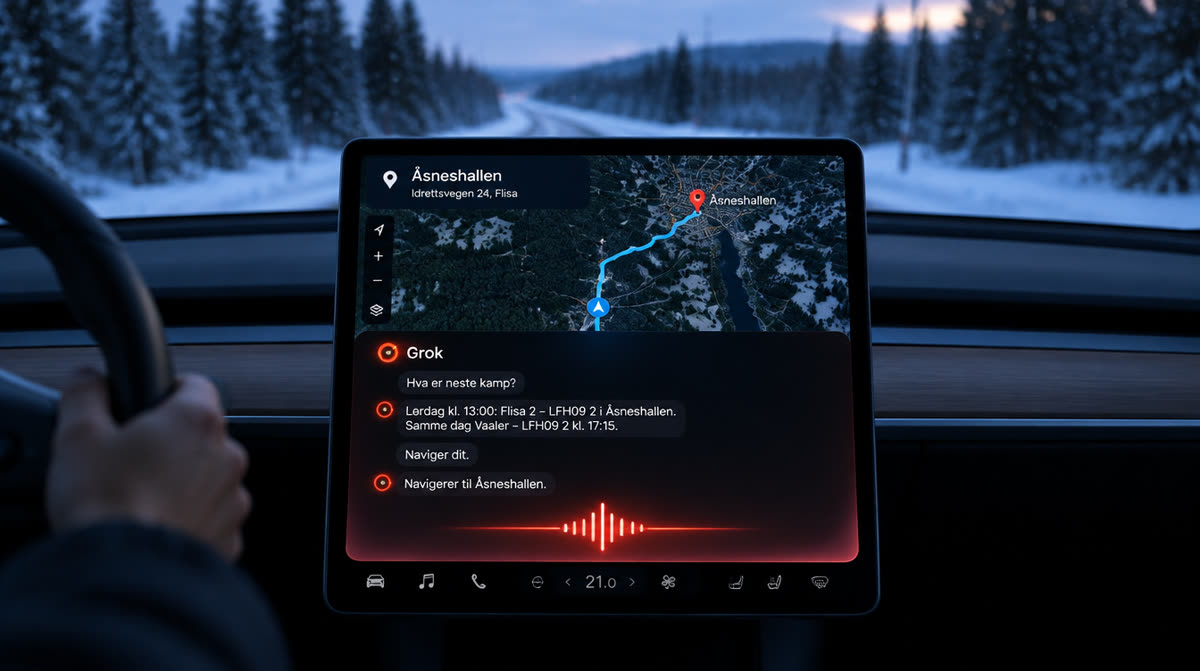
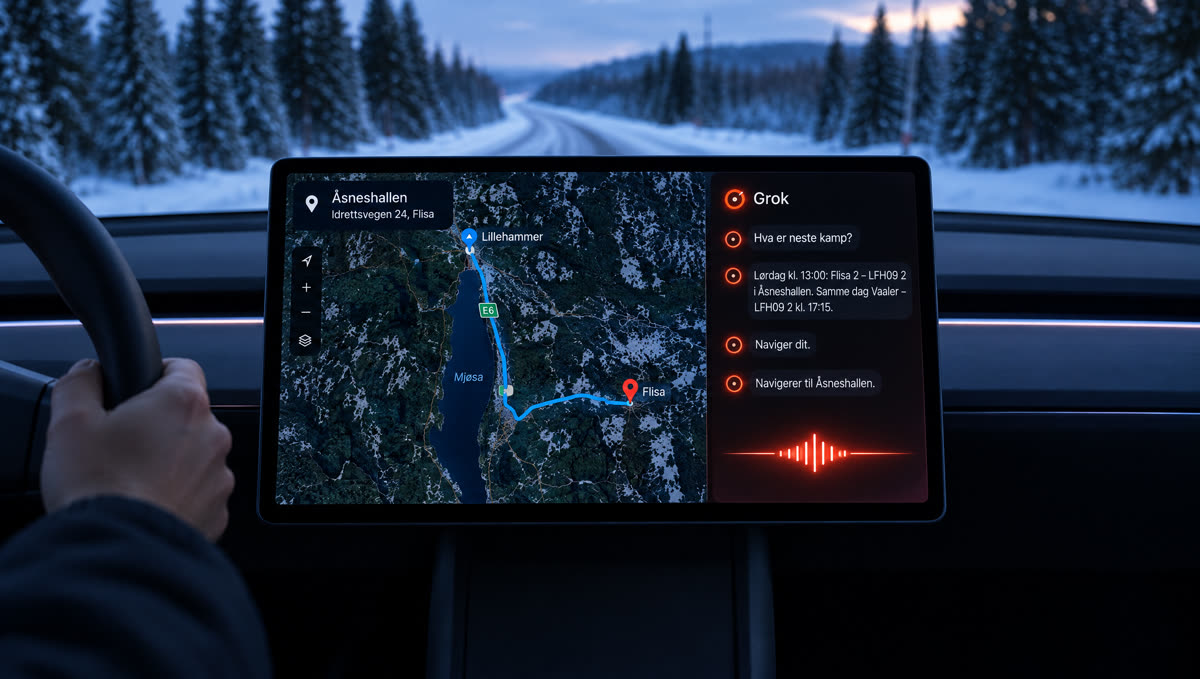
fix: Tesla-bildet med liggende skjerm og rute fra Lillehammer langs E6 mot Flisa
Claude-Session: https://claude.ai/code/session_01XfQKzvQjTJFnDciHvXKS2K

diff --git a/knatt-i-bilen/index.html b/knatt-i-bilen/index.html
@@ -241,7 +241,7 @@ pre .k { color: var(--lime); } pre .s { color: var(--glod-l); } pre .c { opacity
   <div class="container">
     <figure>
       <div class="shot-frame" data-reveal>
-        <img src="tesla-grok.webp" width="1344" height="752" alt="Illustrasjon: skjermen i en Tesla Model Y en vinterkveld. Kartet viser ruta til Åsneshallen på Flisa, og Grok-panelet viser samtalen: «Hva er neste kamp?» — «Lørdag kl. 13:00: Flisa 2 – LFH09 2 i Åsneshallen. Samme dag Vaaler – LFH09 2 kl. 17:15.» — «Naviger dit.» — «Navigerer til Åsneshallen.»">
+        <img src="tesla-grok.webp" width="1600" height="905" alt="Illustrasjon: den liggende skjermen i en Tesla Model Y en vinterkveld. Kartet viser ruta fra Lillehammer langs E6 ved Mjøsa og videre til Flisa, og Grok-panelet viser samtalen: «Hva er neste kamp?» — «Lørdag kl. 13:00: Flisa 2 – LFH09 2 i Åsneshallen. Samme dag Vaaler – LFH09 2 kl. 17:15.» — «Naviger dit.» — «Navigerer til Åsneshallen.»">
       </div>
       <figcaption>Illustrasjon laget med KI · kampene er ekte, fra Knatt-lite</figcaption>
     </figure>

diff --git a/index.html b/index.html
@@ -1441,7 +1441,7 @@ a, button { transition: opacity 0.15s ease; }
         <p>Spør assistenten i bilen, og få svaret fra Knatt — tid, motstander, hall og vei dit. Bare offentlige lagdata fra Min Håndball.</p>
         <span class="bilen-lenke">Les saken →</span>
       </div>
-      <img src="/knatt-i-bilen/tesla-grok.webp" width="1344" height="752" loading="lazy" alt="Illustrasjon: Grok på skjermen i en Tesla svarer på «Hva er neste kamp?» og navigerer til Åsneshallen">
+      <img src="/knatt-i-bilen/tesla-grok.webp" width="1600" height="905" loading="lazy" alt="Illustrasjon: Grok på skjermen i en Tesla svarer på «Hva er neste kamp?» og navigerer til Åsneshallen">
     </a>
   </div>
 </section>
